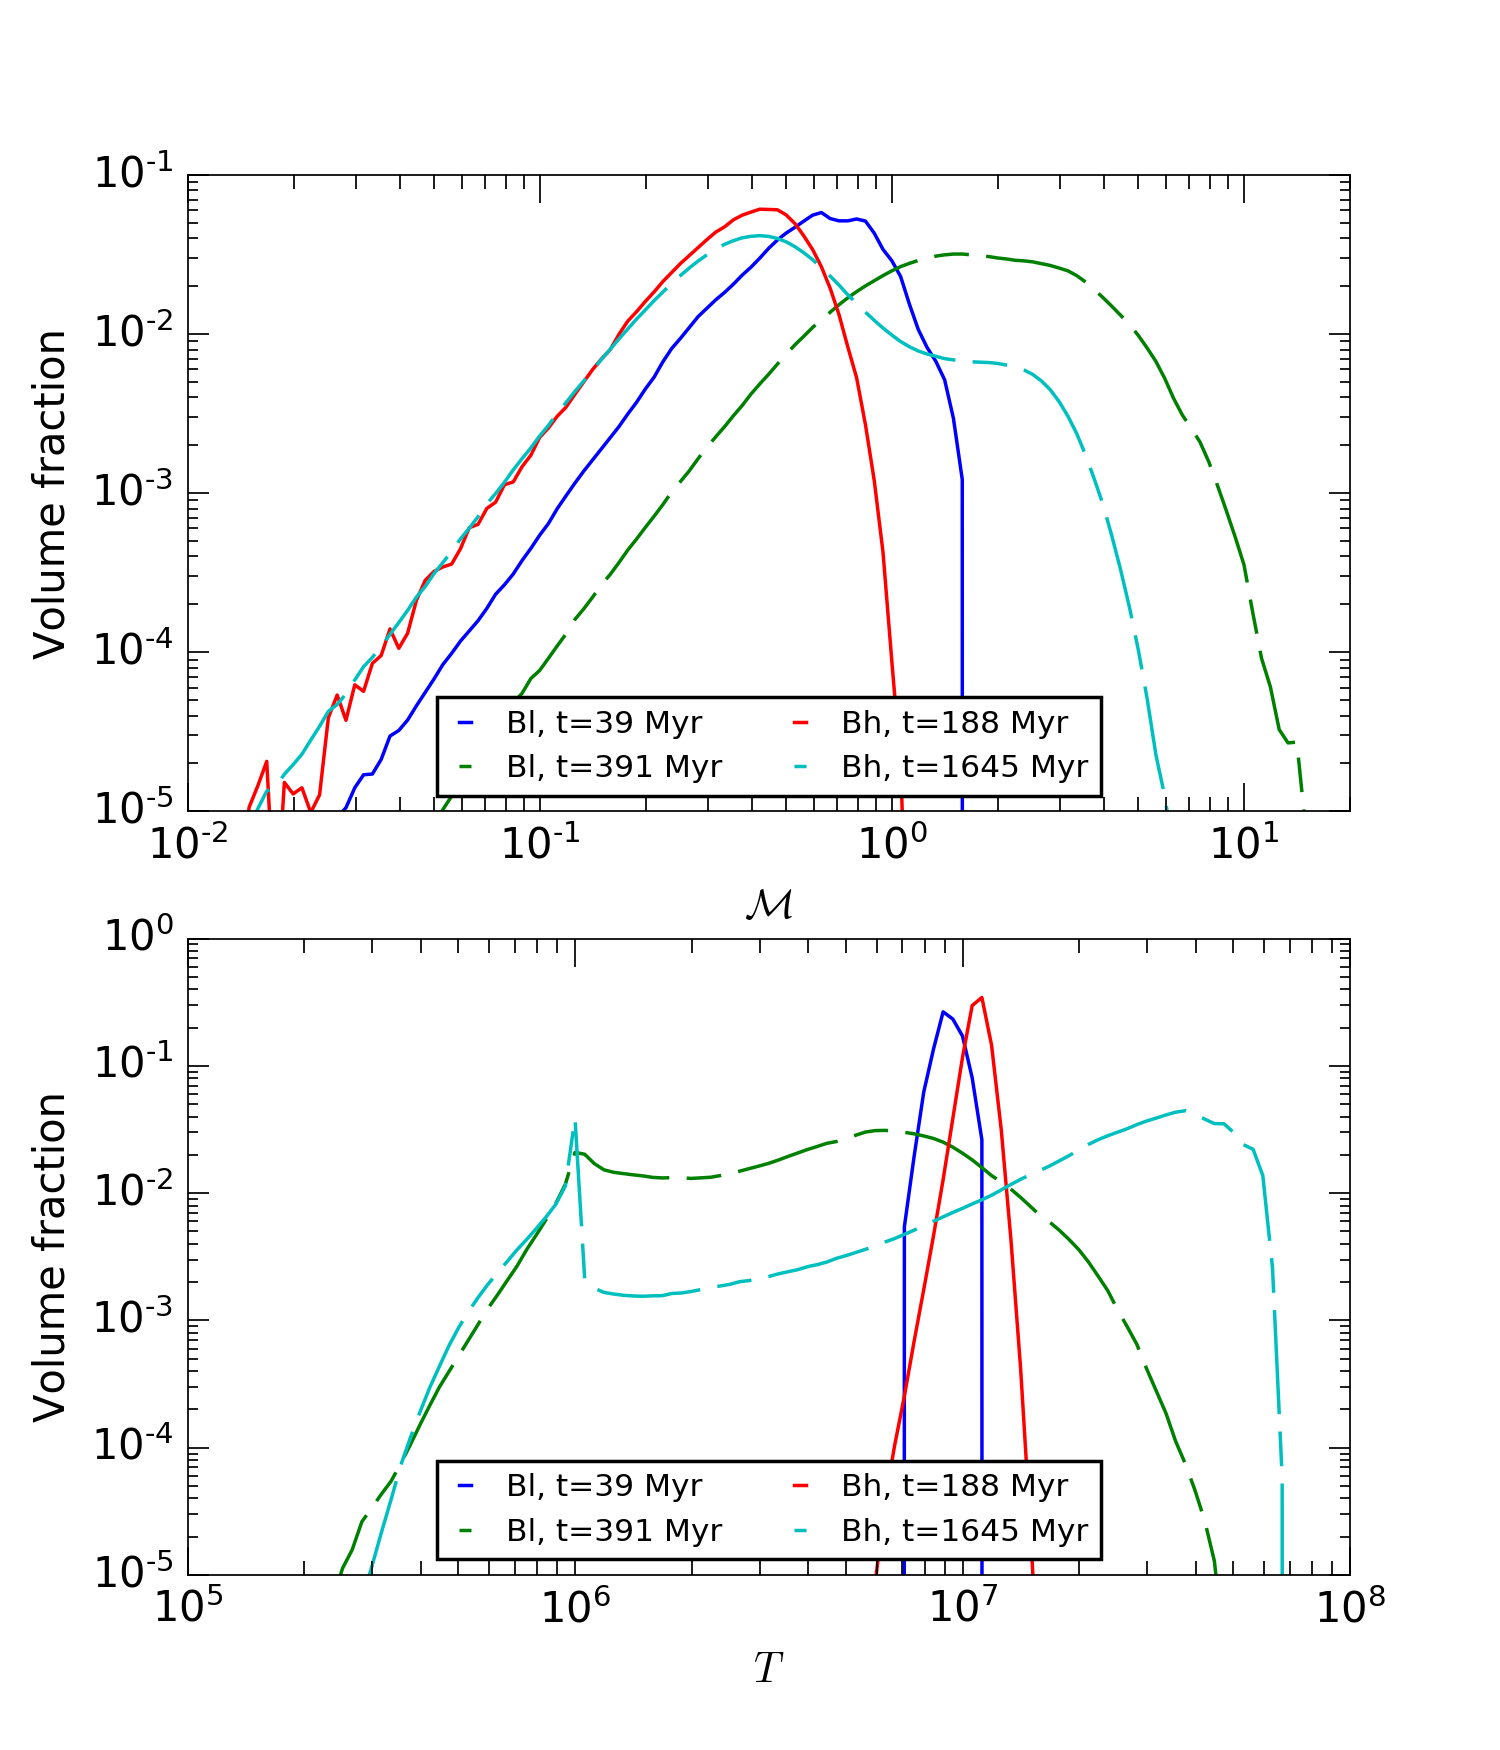
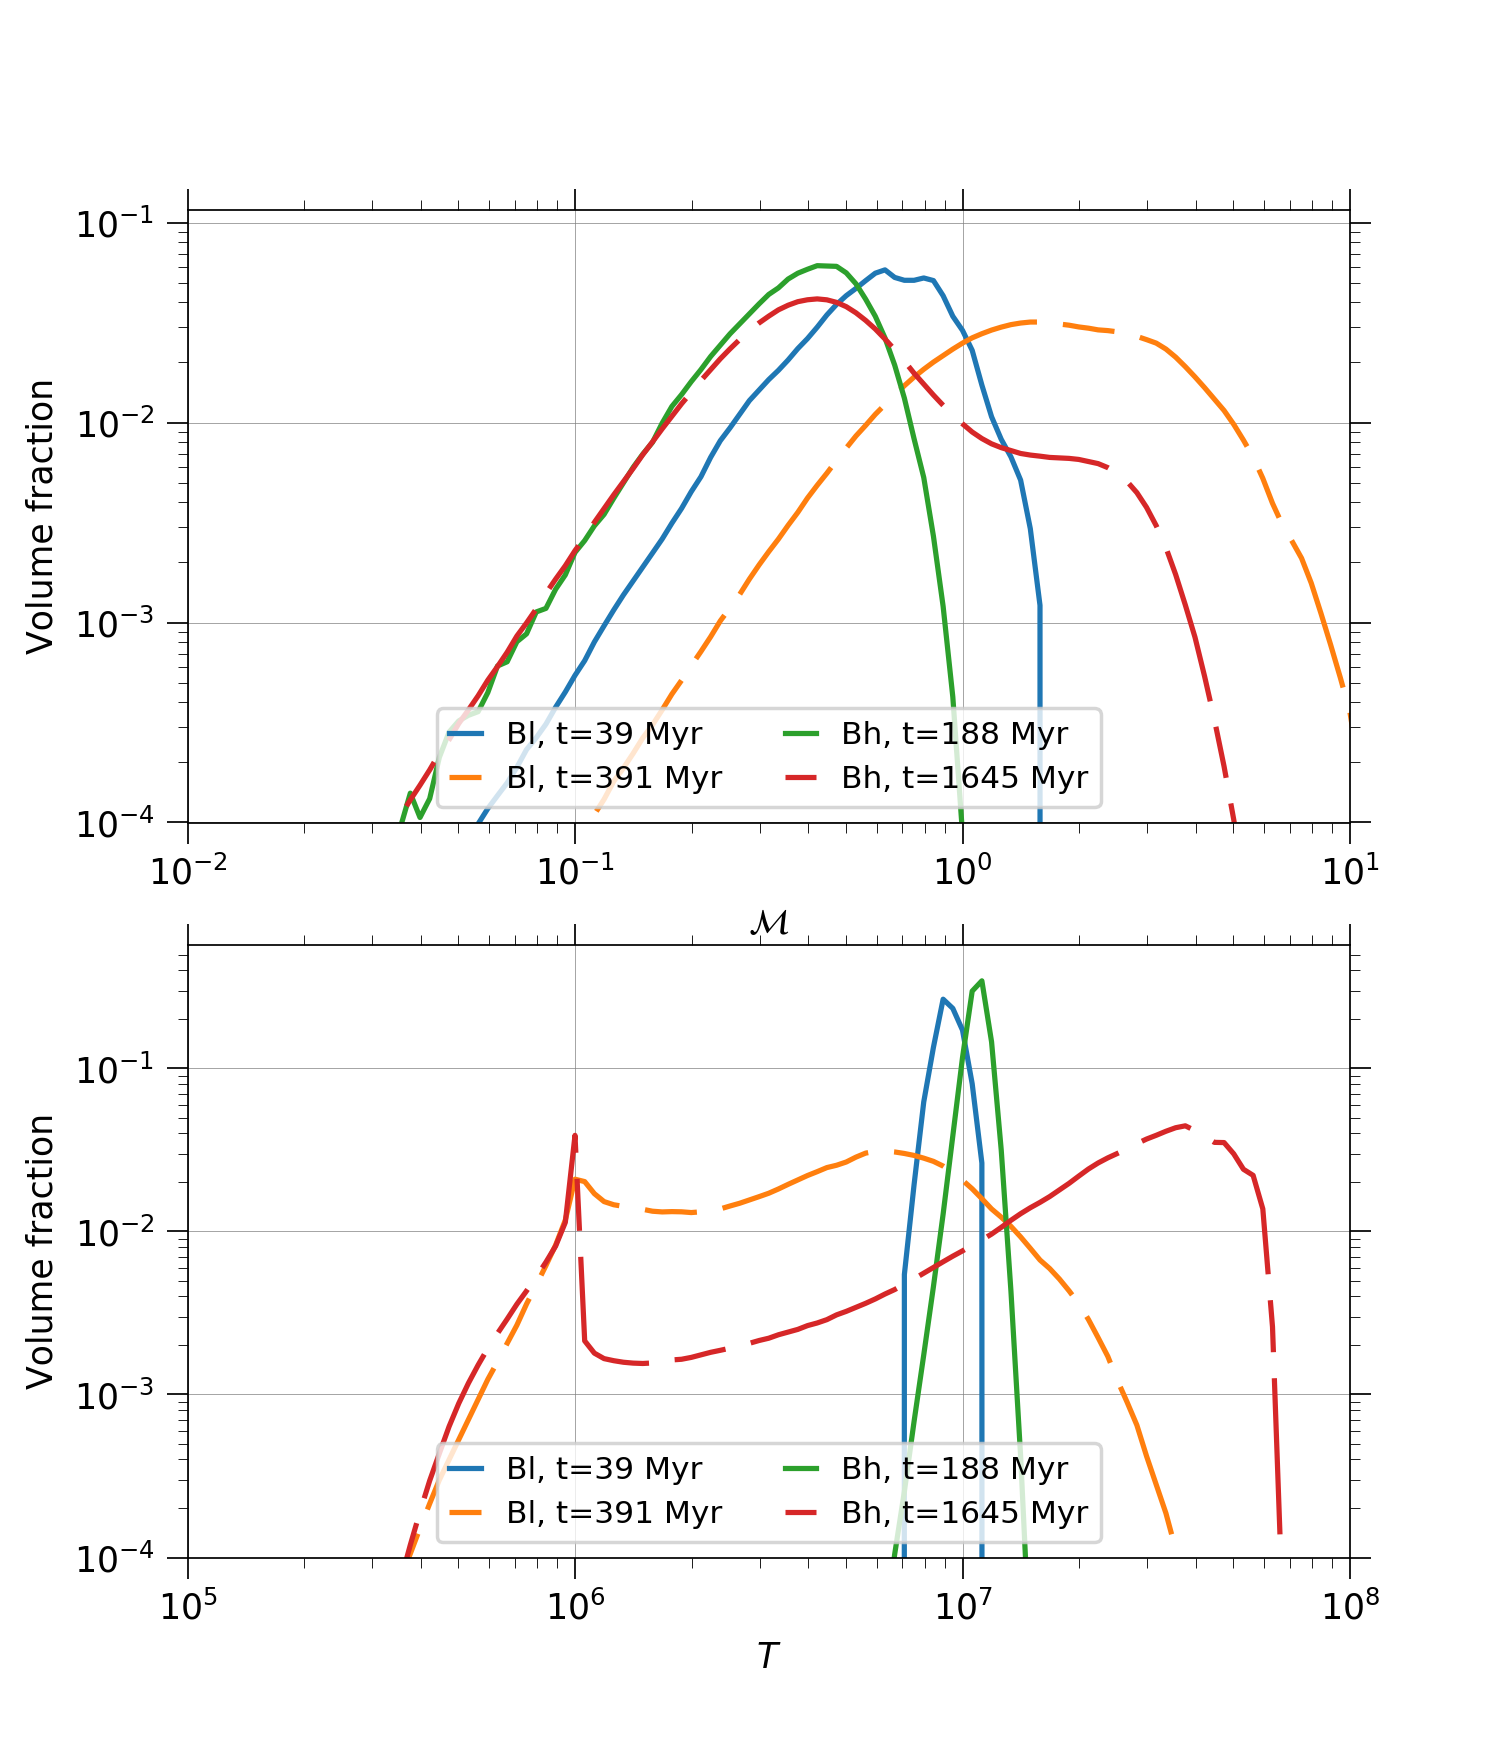
Edited mach no plots

diff --git a/mach_temp_dist/mach-temp-dist.py b/mach_temp_dist/mach-temp-dist.py
@@ -2,7 +2,7 @@ import numpy as np
 import matplotlib.pyplot as plt
 import pylab as plot
 
-plt.style.use('classic')
+#plt.style.use('classic')
 params = {'legend.fontsize':9.0,
           'legend.handlelength': 1.0}
 plt.rcParams['axes.linewidth'] = .5
@@ -30,67 +30,77 @@ nx,ny,nz=256,256,256
 
 #wdir=('thermal_heating/256/tabulated_cooling/F5e-1/k0-2/', 'thermal_heating/256/tabulated_cooling/F5e-1/k12/')
 #wdir=('tabulated_cooling/256/k0-2/', 'tabulated_cooling/256/k12/')
-wdir=('no_turb/2e-1/')#, 'turb_perturb//DkHC2e-1/', 'turb_perturb/DBh2e-1/')
+wdir=('no_turb/2e-1/', 'turb_perturb//DkHC2e-1/', 'turb_perturb/DBh2e-1/')
 
 #labels=('Bl', 'Bh')
 #labels=('Tl', 'Th')
-labels=('QD')#, 'TDh', 'BDh')
+labels=('QD', 'TDh', 'BDh')
 
 #t_mp=(10., 42.)
 #t_mp=(10., 51.)
-t_mp=(10.4)#, 42., 15.)
+t_mp=(10.4, 42., 15.)
 
 #t_turb=(1., 4.8)
 #t_turb=(0.8, 4.8)
-t_turb=(0.2)#, 10.2, 3.)
+t_turb=(0.2, 10.2, 3.)
 
 step_size=np.array((0.2))#, 0.2, 0.2))
 
 #Initialise the figure
 fig, (ax1, ax2) = plt.subplots(2, 1)
-filedir='/mnt/lustre/ug4/ugrajs/cooling/'+wdir
-file=filedir+'mach'+str(int(t_turb/step_size+0.1)).rjust(4,'0')+'.txt'
-data = np.loadtxt(file, skiprows=1, usecols=(0,1))
-ax1.plot(data[:,0], data[:,1]/(float(nx*ny*nz)), label=labels+', t='+str(int(t_turb*UNIT_TIME))+' Myr')
-file=filedir+'mach'+str(int(t_mp/step_size+0.1)).rjust(4,'0')+'.txt'
-data = np.loadtxt(file, skiprows=1, usecols=(0,1))
-ax1.plot(data[:,0], data[:,1]/(float(nx*ny*nz)), dashes=[30, 5, 10, 5], label=labels+', t='+str(int(t_mp*UNIT_TIME))+' Myr')
-fig.set_size_inches(6, 7)
-ax1.set_xscale('log')
-ax1.set_yscale('log')
-ax1.set_xlim(1e-2, 2e1)
-ax1.set_ylim(1e-5, )
-ax1.set_xlabel(r'$\mathcal{M}$')
-ax1.set_ylabel(r'Volume fraction')
-# Shrink current axis by 20%
-box = ax1.get_position()
-ax1.set_position([box.x0, box.y0, box.width, box.height])
-# Put a legend to the bottom of the current axis
-ax1.legend(loc='lower center', ncol=3)
-#plt.savefig('mach-dist.png',dpi=250)
 
-filedir='/mnt/lustre/ug4/ugrajs/cooling/'+wdir
-file=filedir+'temp'+str(int(t_turb/step_size+0.1)).rjust(4,'0')+'.txt'
-data = np.loadtxt(file, skiprows=1, usecols=(0,1))
-ax2.plot(data[:,0], data[:,1]/(float(nx*ny*nz)), label=labels+', t='+str(int(t_turb*UNIT_TIME))+' Myr')
-file=filedir+'temp'+str(int(t_mp/step_size+0.1)).rjust(4,'0')+'.txt'
-data = np.loadtxt(file, skiprows=1, usecols=(0,1))
-ax2.plot(data[:,0], data[:,1]/(float(nx*ny*nz)), dashes=[30, 5, 10, 5], label=labels+', t='+str(int(t_mp*UNIT_TIME))+' Myr')
-ax2.set_xscale('log')
-ax2.set_yscale('log')
-ax2.set_xlim(1e5, 1e8)
-ax2.set_ylim(1e-5, )
-ax2.set_xlabel(r'$T$')
-ax2.set_ylabel(r'Volume fraction')
-box = ax2.get_position()
-ax2.set_position([box.x0, box.y0, box.width, box.height])
-# Put a legend to the bottom of the current axis
-ax2.legend(loc='lower center', ncol=3)
-#plt.savefig('temp-dist.png',dpi=250)
+for i in xrange(2):
+
+	filedir='/mnt/lustre/ug4/ugrajs/cooling/'+wdir[i]
+	file=filedir+'mach'+str(int(t_turb[i]/step_size+0.1)).rjust(4,'0')+'.txt'
+	data = np.loadtxt(file, skiprows=1, usecols=(0,1))
+	ax1.plot(data[:,0], data[:,1]/(float(nx*ny*nz)), label=labels[i]+', t='+str(int(t_turb[i]*UNIT_TIME))+' Myr')
+	file=filedir+'mach'+str(int(t_mp[i]/step_size+0.1)).rjust(4,'0')+'.txt'
+	data = np.loadtxt(file, skiprows=1, usecols=(0,1))
+	ax1.plot(data[:,0], data[:,1]/(float(nx*ny*nz)), dashes=[30, 5, 10, 5], label=labels[i]+', t='+str(int(t_mp[i]*UNIT_TIME))+' Myr')
+	fig.set_size_inches(6, 7)
+	ax1.set_xscale('log')
+	ax1.set_yscale('log')
+	ax1.set_xlim(1e-2, 1e1)
+	ax1.set_ylim(1e-4, )
+	ax1.set_xlabel(r'$\mathcal{M}$')
+	ax1.set_ylabel(r'Volume fraction')
+	# Shrink current axis by 20%
+	box = ax1.get_position()
+	ax1.set_position([box.x0, box.y0, box.width, box.height])
+	# Put a legend to the bottom of the current axis
+	ax1.legend(loc='lower center', ncol=2)
+	#plt.savefig('mach-dist.png',dpi=250)
+	ax1.tick_params(axis='both', which='major', direction='out', length=6, width=0.5, top=True, right=True)
+	ax1.tick_params(axis='both', which='minor', direction='out', length=3, width=0.25, top=True, right=True)
+	ax1.grid(color='grey', linestyle='-', linewidth=0.2)
+
+
+	filedir='/mnt/lustre/ug4/ugrajs/cooling/'+wdir[i]
+	file=filedir+'temp'+str(int(t_turb[i]/step_size+0.1)).rjust(4,'0')+'.txt'
+	data = np.loadtxt(file, skiprows=1, usecols=(0,1))
+	ax2.plot(data[:,0], data[:,1]/(float(nx*ny*nz)), label=labels[i]+', t='+str(int(t_turb[i]*UNIT_TIME))+' Myr')
+	file=filedir+'temp'+str(int(t_mp[i]/step_size+0.1)).rjust(4,'0')+'.txt'
+	data = np.loadtxt(file, skiprows=1, usecols=(0,1))
+	ax2.plot(data[:,0], data[:,1]/(float(nx*ny*nz)), dashes=[30, 5, 10, 5], label=labels[i]+', t='+str(int(t_mp[i]*UNIT_TIME))+' Myr')
+	ax2.set_xscale('log')
+	ax2.set_yscale('log')
+	ax2.set_xlim(1e5, 1e8)
+	ax2.set_ylim(1e-4, )
+	ax2.set_xlabel(r'$T$')
+	ax2.set_ylabel(r'Volume fraction')
+	box = ax2.get_position()
+	ax2.set_position([box.x0, box.y0, box.width, box.height])
+	# Put a legend to the bottom of the current axis
+	ax2.legend(loc='lower center', ncol=2)
+	#plt.savefig('temp-dist.png',dpi=250)
+	ax2.tick_params(axis='both', which='major', direction='out', length=6, width=0.5, top=True, right=True)
+	ax2.tick_params(axis='both', which='minor', direction='out', length=3, width=0.25, top=True, right=True)
+	ax2.grid(color='grey', linestyle='-', linewidth=0.2)
 
 #plt.savefig('mach-temp-dist-B.png',dpi=250, mode="expand", borderaxespad=0.)
 #plt.savefig('mach-temp-dist-T.png',dpi=250, mode="expand", borderaxespad=0.)
-plt.savefig('mach-temp-dist-no_turb.png',dpi=250, mode="expand", borderaxespad=0.)
+plt.savefig('mach-temp-dist-D.png',dpi=250, mode="expand", borderaxespad=0.)
 
 plt.close()
 
